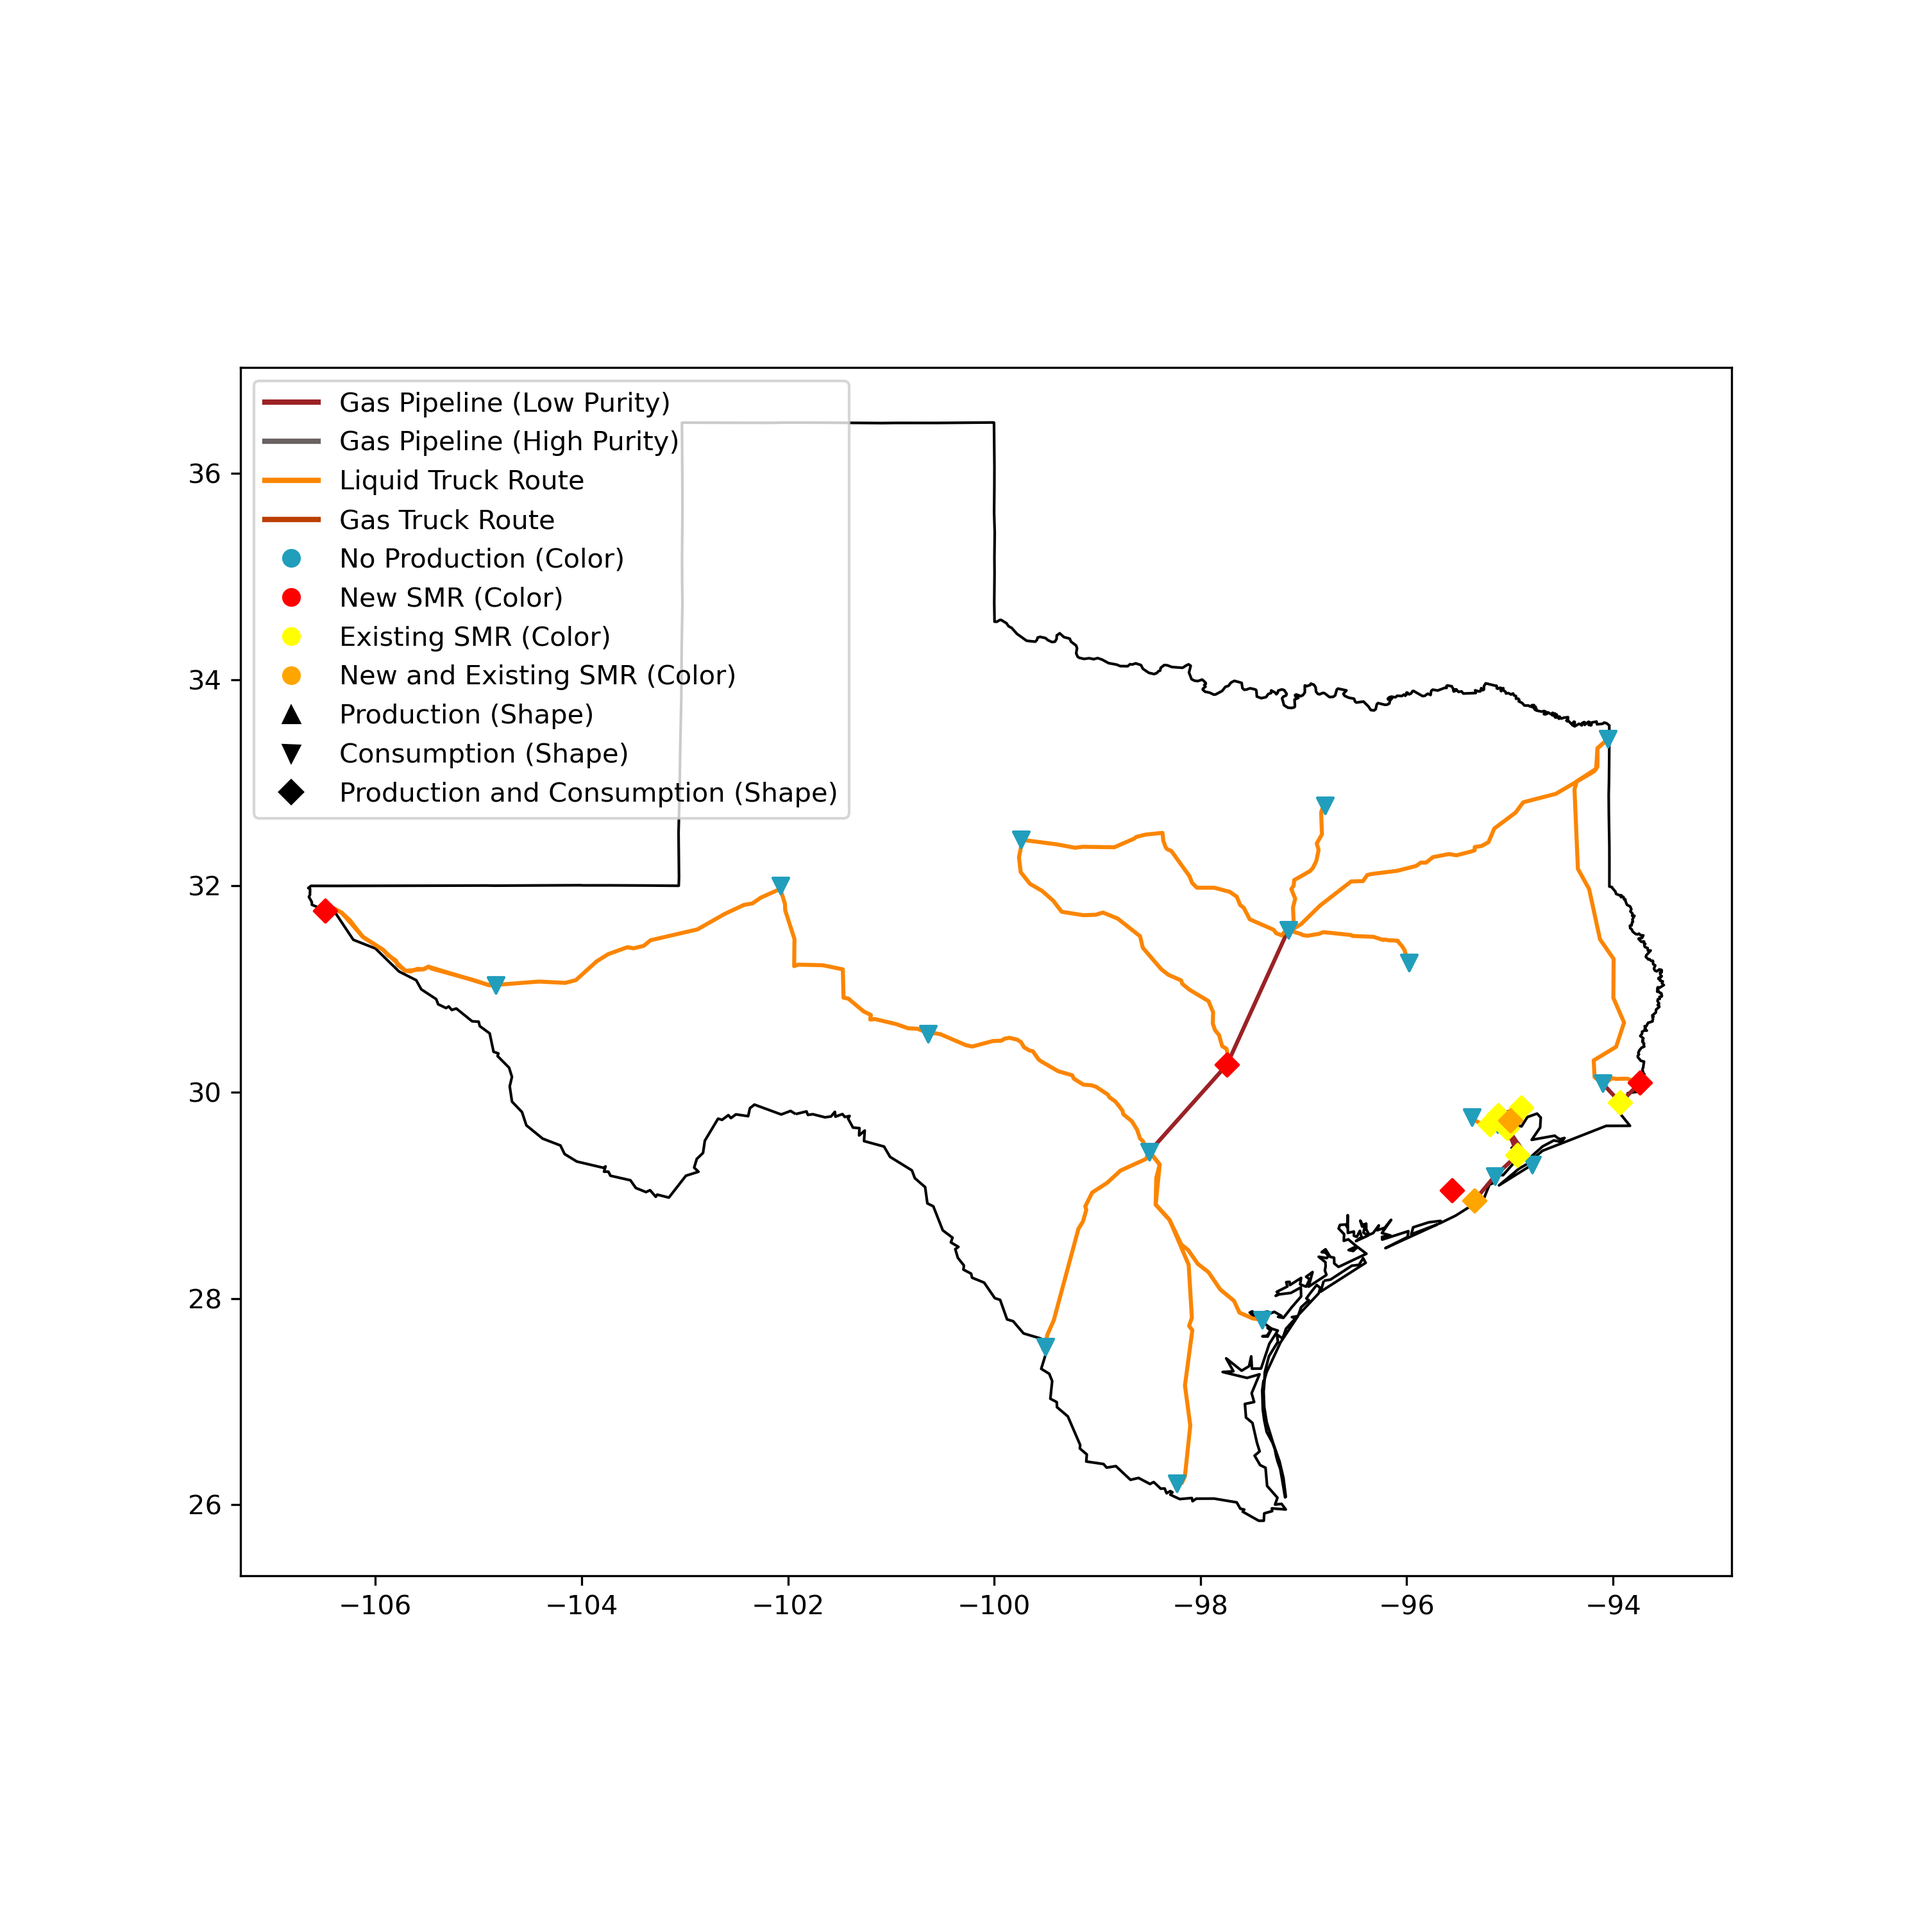
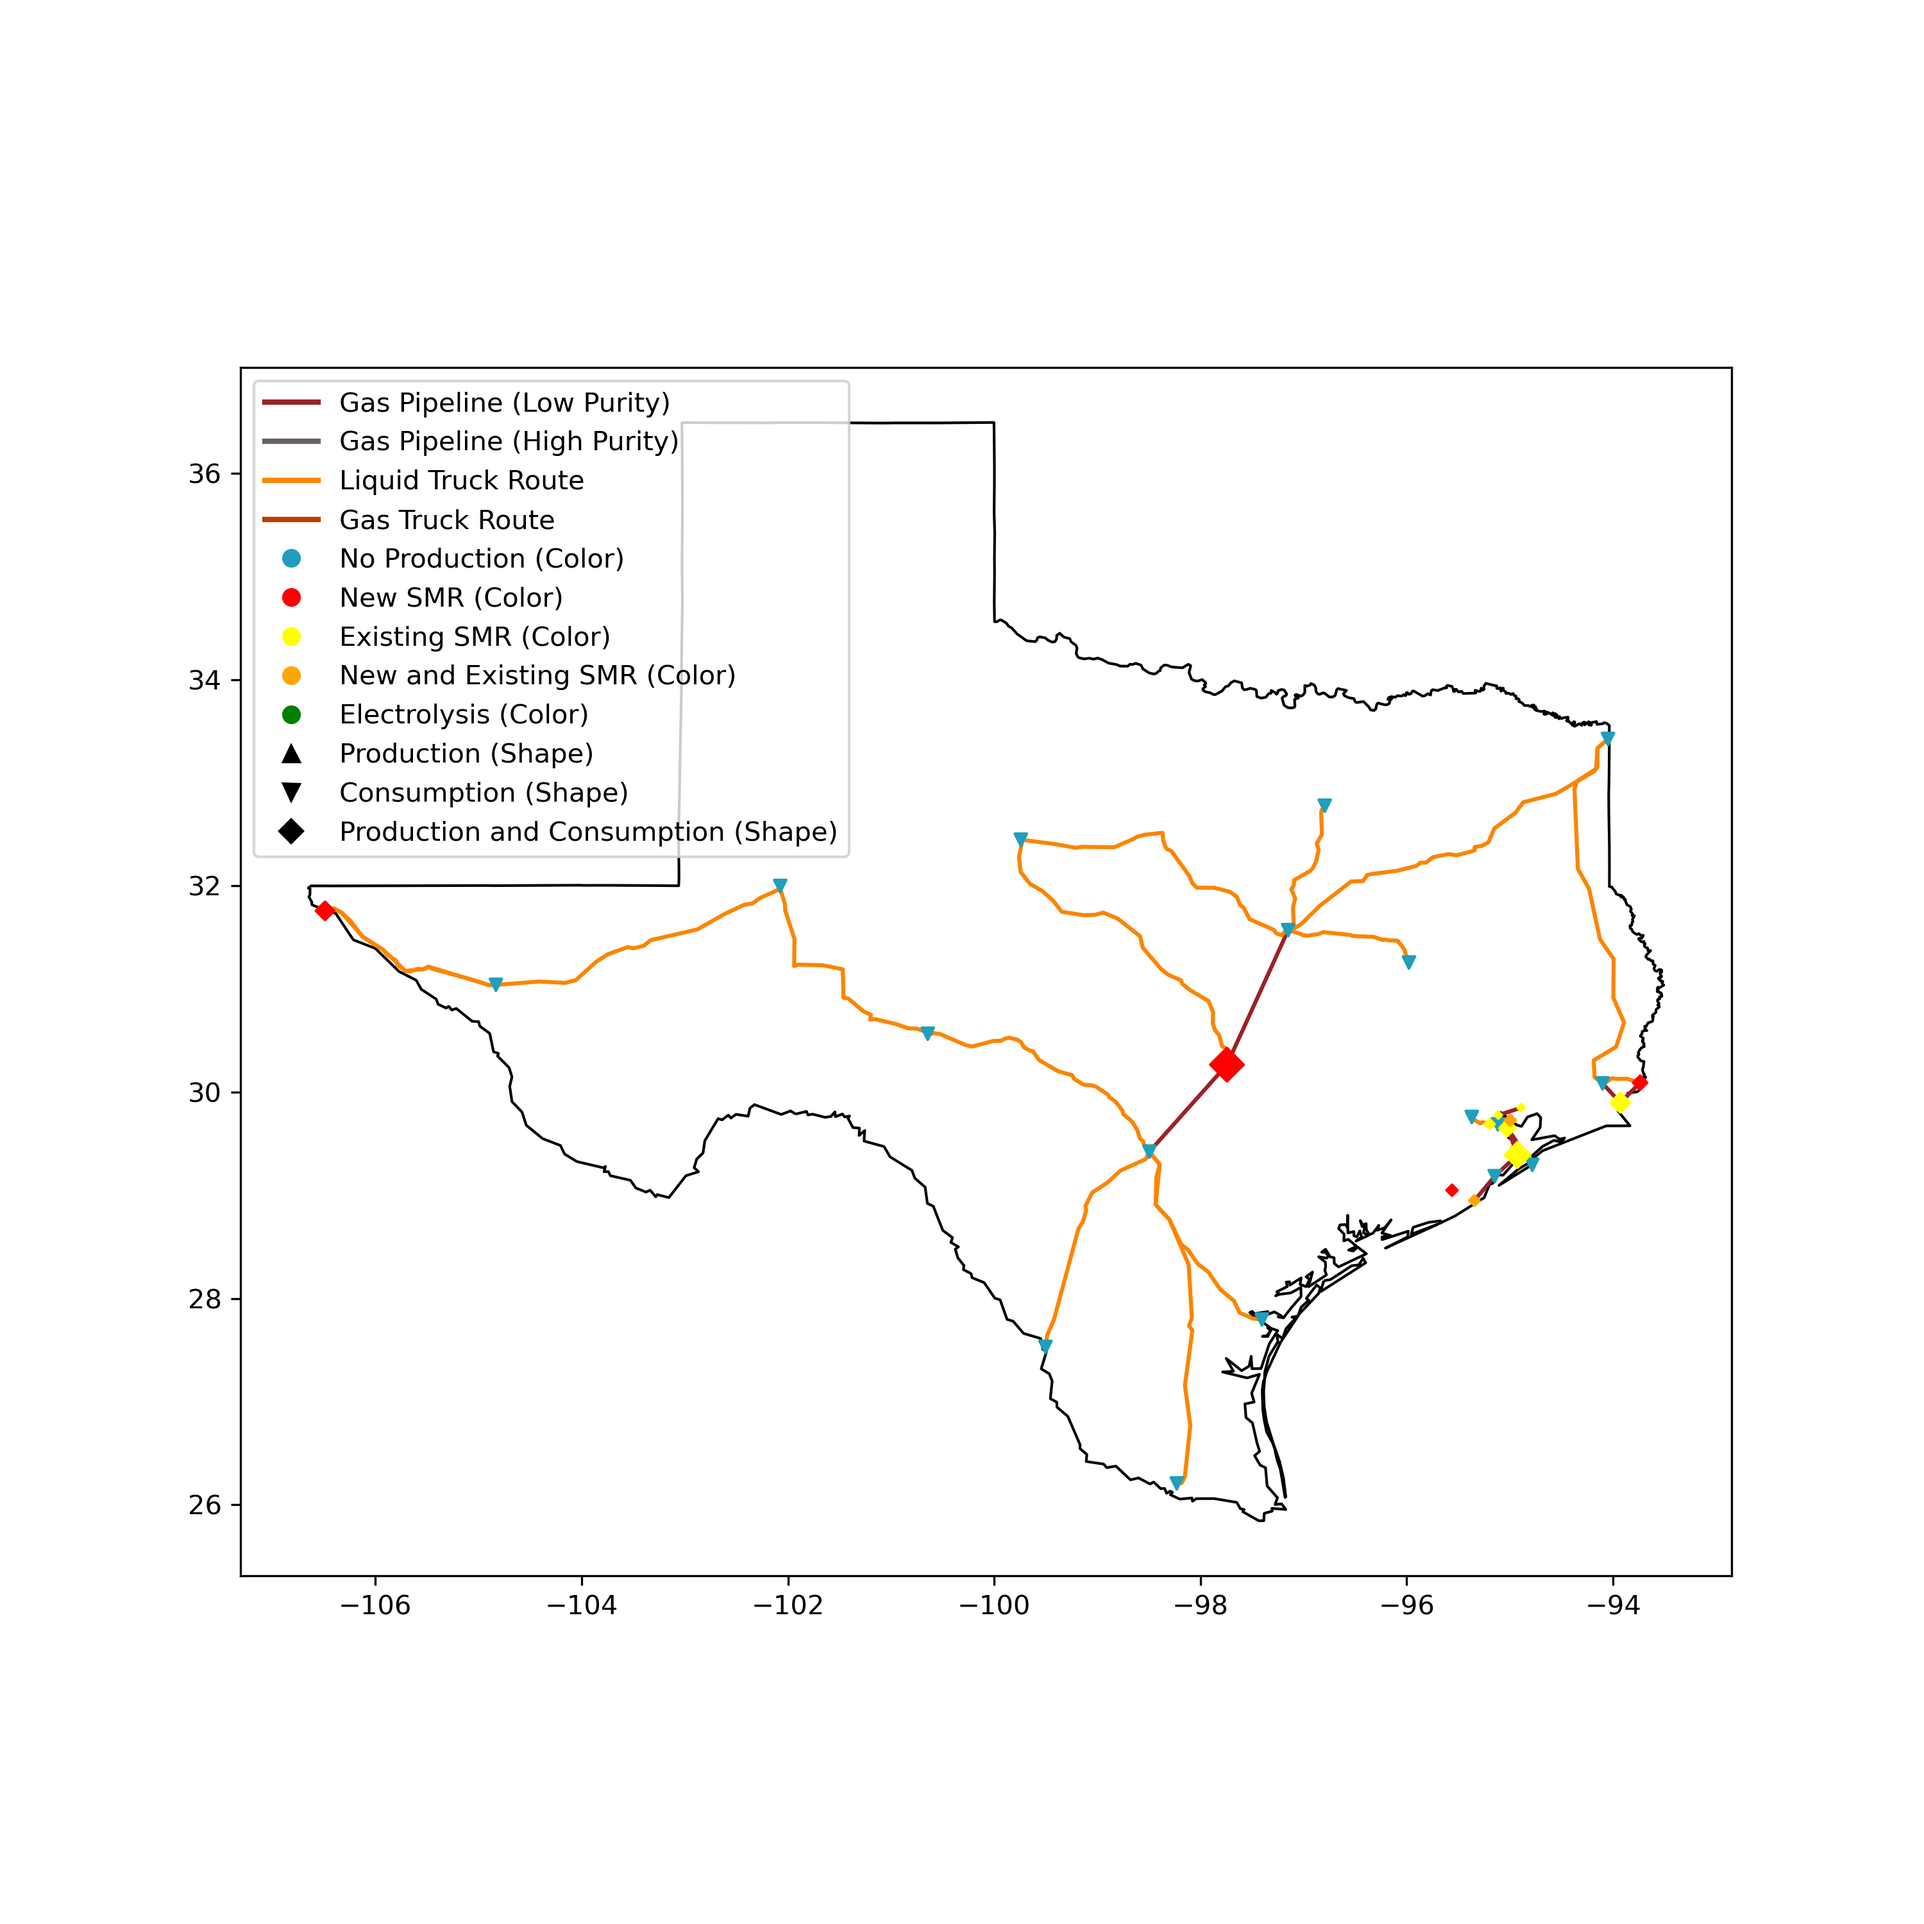
producer marker size relative to capacity

Changed region(s): [[0.124, 0.372, 0.434, 0.465], [0.775, 0.558, 0.806, 0.589], [0.744, 0.62, 0.775, 0.651]]

diff --git a/data/create_plot.py b/data/create_plot.py
@@ -40,8 +40,31 @@ def main(data, path='data/base/',us_county_shp_file='data/US_COUNTY_SHPFILE/US_c
         else:
             return None
     prod_data = {node: get_relevant_p_or_c_data(nodal_data['production']) for node, nodal_data in data.items()} 
-    cons_data = {node: get_relevant_p_or_c_data(nodal_data['consumption']) for node, nodal_data in data.items()} 
+    cons_data = {node: get_relevant_p_or_c_data(nodal_data['consumption']) for node, nodal_data in data.items()}
+
+    def get_production_capacity(nodal_data_prod):
+        if nodal_data_prod != {}:
+            return sum([prod_data_by_type['prod_h'] for _, prod_data_by_type in nodal_data_prod.items()])
+        else:
+            return 0
+    prod_capacity = {node: get_production_capacity(nodal_data['production']) for node, nodal_data in data.items()}
     
+    marker_size_default = 20
+    prod_capacity_values = list(prod_capacity.values())
+    number_of_producers = sum([1 for prod_capacity_value in prod_capacity_values if prod_capacity_value > 0])
+    avg_prod_value = sum(prod_capacity_values)/number_of_producers
+    marker_size_factor = marker_size_default/avg_prod_value # the default marker size / the average production value across non-zero producers
+
+    def get_marker_size(prod_capacity):
+        if prod_capacity != 0:
+            size = marker_size_factor*prod_capacity
+        else:
+            # prod capacity is zero for non-producers, which would correspond to a size of zero.
+            # Thus, we use the default size for non-producers
+            size = marker_size_default
+        return size
+    prod_capacity_marker_size = {node: get_marker_size(prod_capacity) for node, prod_capacity in prod_capacity.items()}
+
     features = []
     for node, nodal_connections in dist_data.items():
         node_latlng = locations[node]
@@ -53,8 +76,10 @@ def main(data, path='data/base/',us_county_shp_file='data/US_COUNTY_SHPFILE/US_c
             },
             'properties' : {
                 'name' : node,
-                'production' : prod_data[node], # potential to lose data if 'island' that produces but not distributes
+                'production' : prod_data[node],
                 'consumption' : cons_data[node],
+                'production_capacity': prod_capacity[node],
+                'production_marker_size' : prod_capacity_marker_size[node]
             }
         }
         features.append(node_geodata)
@@ -176,7 +201,7 @@ def main(data, path='data/base/',us_county_shp_file='data/US_COUNTY_SHPFILE/US_c
     # in short, iterates over both of the above option dictionaries
     # the 'b' (boolean) key is a lambda function that returns the locations of where the nodes dataframe 
     #   matches the specifications. An iterable way of doing stuff like df[df['production'] == 'smr']
-    [nodes[type_plot['b'](nodes) & tech_plot['b'](nodes)].plot(ax=ax, color=tech_plot['color'],marker=type_plot['marker'],zorder=5) for tech, tech_plot in node_plot_tech.items() for type_name, type_plot in node_plot_type.items()]
+    [nodes[type_plot['b'](nodes) & tech_plot['b'](nodes)].plot(ax=ax, color=tech_plot['color'],marker=type_plot['marker'],zorder=5,markersize=nodes[type_plot['b'](nodes) & tech_plot['b'](nodes)]['production_marker_size']) for tech, tech_plot in node_plot_tech.items() for type_name, type_plot in node_plot_type.items()]
 
 
     # Plot connections: 
